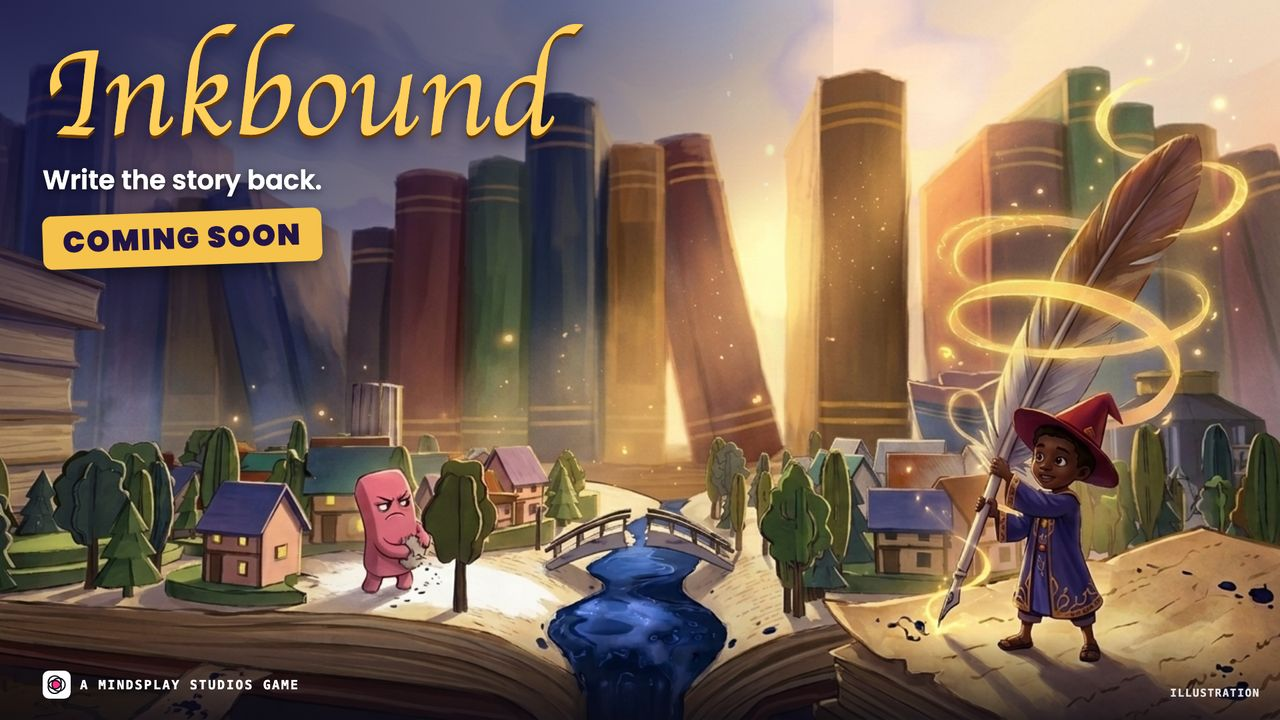
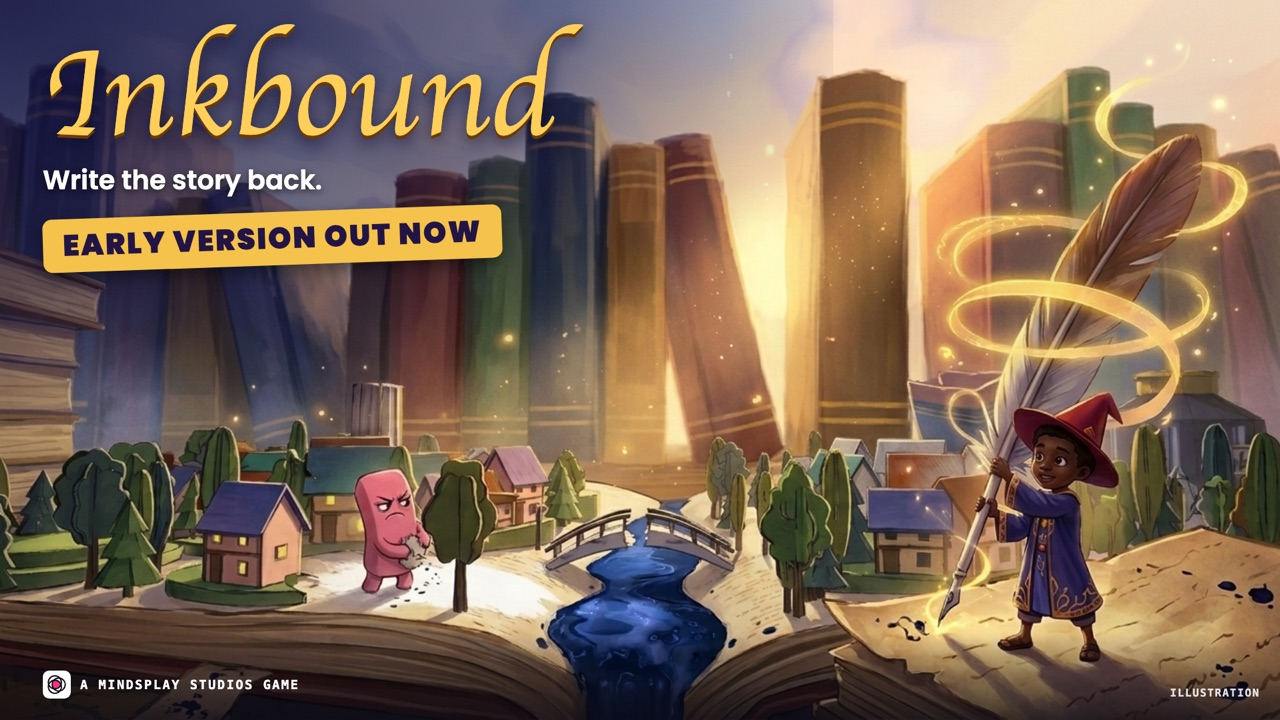
Inkbound early version: browser demo, downloads, card and page

Changed region(s): [[0.0312, 0.275, 0.4062, 0.3972], [0.0312, 0.9472, 0.0625, 0.9778]]

diff --git a/inkbound-play.html b/inkbound-play.html
@@ -1,0 +1,99 @@
+<!doctype html>
+<html lang="en">
+<head>
+<meta charset="utf-8">
+<meta name="viewport" content="width=device-width, initial-scale=1, viewport-fit=cover">
+<title>Play the free demo · Inkbound</title>
+<meta name="description" content="Play Inkbound in your browser. A storybook adventure set inside an open book. You are the Scribe: catch golden words and write them onto the world to repair what the Eraser rubbed out. Two chapters, on adjectives and verb tenses, about 15 to 20 minutes. Chapter One is free for everyone; sign in inside the game with your MindsPlay class code for the whole book.">
+<link rel="icon" href="img/icons/inkbound.svg">
+<link rel="stylesheet" href="https://fonts.googleapis.com/css2?family=Baloo+2:wght@600;800&family=Lexend:wght@400;500;600&family=Silkscreen&display=swap">
+<link rel="stylesheet" href="app.css">
+<style>
+.stage { position:relative; width:100%; aspect-ratio:16/9; max-height:calc(100vh - 140px); background:#000 url(img/art-inkbound.jpg) center/cover; border:4px solid var(--edge); border-radius:18px; overflow:hidden; margin-inline:auto }
+.stage canvas { width:100%; height:100%; display:block; background:transparent }
+.cover { position:absolute; inset:0; display:grid; place-content:center; justify-items:center; gap:16px; text-align:center; padding:24px; background:linear-gradient(0deg, rgba(4,22,31,.94), rgba(4,22,31,.6)) }
+.cover h1 { font-size:clamp(30px,5vw,54px) }
+.cover p { max-width:48ch; color:#DADAF5 }
+.meter { width:min(420px, 80vw); height:14px; background:var(--deep); border:2px solid var(--edge); border-radius:999px; overflow:hidden }
+.meter i { display:block; height:100%; width:0; background:linear-gradient(90deg,#46E0FF,#7CFFB2); transition:width .3s }
+.full { position:absolute; right:10px; top:10px; z-index:2; opacity:.85 }
+.keys { display:grid; grid-template-columns:repeat(auto-fit,minmax(170px,1fr)); gap:10px; margin:0; padding:0; list-style:none }
+.keys li { padding:10px 12px; border:2px solid var(--edge); border-radius:12px; font-size:14px }
+.keys b { display:block; font-size:15px }
+</style>
+<link rel="canonical" href="https://mindsplaystudiogh.com/inkbound-play.html">
+<meta property="og:type" content="website">
+<meta property="og:site_name" content="MindsPlay Studios">
+<meta property="og:url" content="https://mindsplaystudiogh.com/inkbound-play.html">
+<meta property="og:title" content="Play the free demo · Inkbound">
+<meta property="og:description" content="Play Inkbound in your browser. A storybook adventure set inside an open book. You are the Scribe: catch golden words and write them onto the world to repair what the Eraser rubbed out. Two chapters, on adjectives and verb tenses, about 15 to 20 minutes. Chapter One is free for everyone; sign in inside the game with your MindsPlay class code for the whole book.">
+<meta property="og:image" content="https://mindsplaystudiogh.com/img/og-inkbound.jpg">
+<meta property="og:image:width" content="1200">
+<meta property="og:image:height" content="630">
+<meta property="og:image:alt" content="Play the free demo · Inkbound">
+<meta property="og:locale" content="en_GH">
+<meta name="twitter:card" content="summary_large_image">
+<meta name="twitter:title" content="Play the free demo · Inkbound">
+<meta name="twitter:description" content="Play Inkbound in your browser. A storybook adventure set inside an open book. You are the Scribe: catch golden words and write them onto the world to repair what the Eraser rubbed out. Two chapters, on adjectives and verb tenses, about 15 to 20 minutes. Chapter One is free for everyone; sign in inside the game with your MindsPlay class code for the whole book.">
+<meta name="twitter:image" content="https://mindsplaystudiogh.com/img/og-inkbound.jpg">
+</head>
+<body>
+<main class="wrap stack">
+  <div class="stack" style="gap:8px">
+    <span class="tag">Free demo · no download</span>
+    <h1>Play Inkbound in your browser</h1>
+    <p class="lead">A storybook adventure set inside an open book. You are the Scribe: catch golden words and write them onto the world to repair what the Eraser rubbed out. Two chapters, on adjectives and verb tenses, about 15 to 20 minutes. Chapter One is free for everyone; sign in inside the game with your MindsPlay class code for the whole book. Best on a laptop or desktop with a keyboard and mouse.</p>
+  </div>
+  <div class="stage" id="stage">
+    <canvas id="unity" tabindex="-1" aria-label="Inkbound game"></canvas>
+    <div class="cover" id="cover">
+      <h1>Write the world back.</h1>
+      <p id="covertext">Walk up to a glowing prompt, press E to write, then choose the word that fixes the page.</p>
+      <div class="meter" id="meter" hidden><i></i></div>
+      <button class="btn" id="start" type="button">▶ Play the free demo</button>
+      <p class="err" id="err" role="alert"></p>
+    </div>
+    <button class="btn ghost small full" id="fs" type="button" hidden>Full screen</button>
+  </div>
+  <ul class="keys">
+    <li><b>Walk</b>WASD or arrow keys</li>
+    <li><b>Look</b>Hold a mouse button and drag</li>
+    <li><b>Jump</b>Space</li>
+    <li><b>Write</b>E or Enter</li>
+    <li><b>Choose a word</b>1, 2, 3 or click</li>
+  </ul>
+  <div class="grid2">
+    <a class="card" href="inkbound-download.html?from=play" style="text-decoration:none;color:inherit"><h3>Download Inkbound</h3><p class="muted">The same game for Windows and Mac. Runs smoother and plays without internet.</p></a>
+    <a class="card" href="inkbound.html" style="text-decoration:none;color:inherit"><h3>About Inkbound</h3><p class="muted">What it is, who it is for and what it teaches.</p></a>
+  </div>
+  <p class="small muted">This is an early demo and we are still building. Tell us what you think: <a href="mailto:hello@mindsplaystudiogh.com?subject=Inkbound">hello@mindsplaystudiogh.com</a></p>
+</main>
+<script src="app.js"></script>
+<script>
+topBar('<a href="inkbound.html" class="hide-sm">About Inkbound</a><a href="inkbound-download.html?from=play">Download</a><a href="index.html#games">All games</a>', 'Inkbound');
+const BUILD = API + '/play/inkbound/Build/';
+const mobile = /Android|iPhone|iPad|iPod/i.test(navigator.userAgent);
+if (mobile) $('#covertext').textContent = 'Inkbound is made for computers. On a phone the demo may be slow and needs a keyboard. For the best time, open this page on a laptop or desktop.';
+
+let instance;
+$('#start').addEventListener('click', () => {
+  $('#start').hidden = true;
+  $('#meter').hidden = false;
+  $('#covertext').textContent = 'Loading Inkbound… (about 14 MB the first time, then it’s saved)';
+  const s = document.createElement('script');
+  s.src = BUILD + 'inkbound.loader.js';
+  s.onerror = () => { $('#err').textContent = 'The demo couldn’t load. Check your connection and refresh the page.'; };
+  s.onload = () => createUnityInstance($('#unity'), {
+    dataUrl: BUILD + 'inkbound.data.br',
+    frameworkUrl: BUILD + 'inkbound.framework.js.br',
+    codeUrl: BUILD + 'inkbound.wasm.br',
+    companyName: 'MindsPlay Studios', productName: 'Inkbound', productVersion: '0.1',
+  }, p => { $('#meter i').style.width = Math.round(p * 100) + '%'; })
+    .then(u => { instance = u; $('#cover').hidden = true; $('#fs').hidden = false; $('#unity').focus(); })
+    .catch(e => { $('#err').textContent = 'The demo couldn’t start on this device: ' + e; });
+  document.body.append(s);
+});
+$('#fs').addEventListener('click', () => instance && instance.SetFullscreen(1));
+</script>
+</body>
+</html>

diff --git a/inkbound-download.html b/inkbound-download.html
@@ -1,0 +1,72 @@
+<!doctype html>
+<html lang="en">
+<head>
+<meta charset="utf-8">
+<meta name="viewport" content="width=device-width, initial-scale=1, viewport-fit=cover">
+<title>Download Inkbound · MindsPlay Studios</title>
+<meta name="description" content="Download Inkbound for Windows or Mac.">
+<link rel="icon" href="img/icons/inkbound.svg">
+<link rel="stylesheet" href="https://fonts.googleapis.com/css2?family=Baloo+2:wght@600;800&family=Lexend:wght@400;500;600&family=Silkscreen&display=swap">
+<link rel="stylesheet" href="app.css">
+<link rel="canonical" href="https://mindsplaystudiogh.com/inkbound-download.html">
+<meta property="og:type" content="website">
+<meta property="og:site_name" content="MindsPlay Studios">
+<meta property="og:url" content="https://mindsplaystudiogh.com/inkbound-download.html">
+<meta property="og:title" content="Download Inkbound · MindsPlay Studios">
+<meta property="og:description" content="Download Inkbound for Windows or Mac.">
+<meta property="og:image" content="https://mindsplaystudiogh.com/img/og-inkbound.jpg">
+<meta property="og:image:width" content="1200">
+<meta property="og:image:height" content="630">
+<meta property="og:image:alt" content="Download Inkbound · MindsPlay Studios">
+<meta property="og:locale" content="en_GH">
+<meta name="twitter:card" content="summary_large_image">
+<meta name="twitter:title" content="Download Inkbound · MindsPlay Studios">
+<meta name="twitter:description" content="Download Inkbound for Windows or Mac.">
+<meta name="twitter:image" content="https://mindsplaystudiogh.com/img/og-inkbound.jpg">
+</head>
+<body>
+<main class="wrap stack">
+  <div class="stack" style="gap:8px">
+    <span class="tag">Early version · Windows · Mac</span>
+    <h1>Download Inkbound</h1>
+    <p class="lead">A storybook adventure set inside an open book. You are the Scribe: catch golden words and write them onto the world to repair what the Eraser rubbed out. Two chapters, on adjectives and verb tenses, about 15 to 20 minutes. Chapter One is free for everyone; sign in inside the game with your MindsPlay class code for the whole book. It plays without internet.</p>
+  </div>
+  <div class="grid2">
+    <div class="card gold">
+      <h2>Windows</h2>
+      <p class="muted">Windows 10 or 11, 64-bit. About 45 MB.</p>
+      <a class="btn" id="win" href="#">Download for Windows</a>
+      <ol class="small muted" style="margin:0;padding-left:20px">
+        <li>Open the downloaded <b>Inkbound-Windows.zip</b> and choose <b>Extract all</b>.</li>
+        <li>Open the <b>Inkbound</b> folder and double-click <b>Inkbound</b>.</li>
+        <li>If Windows says “Windows protected your PC”, click <b>More info</b>, then <b>Run anyway</b>.</li>
+      </ol>
+    </div>
+    <div class="card">
+      <h2>Mac</h2>
+      <p class="muted">macOS 11 or newer, Apple silicon or Intel. About 52 MB.</p>
+      <a class="btn" id="mac" href="#">Download for Mac</a>
+      <ol class="small muted" style="margin:0;padding-left:20px">
+        <li>Open <b>Inkbound-Mac.zip</b> and drag <b>Inkbound</b> into Applications.</li>
+        <li>Double-click Inkbound. The first time, your Mac says it can’t check the app. Click <b>Done</b>.</li>
+        <li>Open <b>System Settings</b>, then <b>Privacy &amp; Security</b>. Scroll down and click <b>Open Anyway</b> next to Inkbound, then confirm with your password.</li>
+        <li>On macOS 14 or older, you can instead right-click Inkbound and choose <b>Open</b>, then <b>Open</b> again.</li>
+      </ol>
+    </div>
+  </div>
+  <div class="card">
+    <h3>How to play</h3>
+    <p class="muted">Walk with <b>WASD</b> or the arrow keys, hold a mouse button and drag to look, and press <b>Space</b> to jump. Press <b>E</b> or <b>Enter</b> to write when a prompt appears, then choose a word with <b>1</b>, <b>2</b>, <b>3</b> or a click. <b>Esc</b> pauses.</p>
+    <div class="row"><a class="btn ghost small" href="inkbound-play.html">Or try the demo in your browser</a><a class="btn ghost small" href="inkbound.html">About Inkbound</a></div>
+  </div>
+  <p class="small muted">This is an early version and we are still building. Questions or ideas? <a href="mailto:hello@mindsplaystudiogh.com?subject=Inkbound">hello@mindsplaystudiogh.com</a></p>
+</main>
+<script src="app.js"></script>
+<script>
+topBar('<a href="inkbound.html" class="hide-sm">About Inkbound</a><a href="inkbound-play.html">Play in browser</a><a href="index.html#games">All games</a>', 'Inkbound');
+$('#win').href = API + '/download/Inkbound-Windows.zip';
+$('#mac').href = API + '/download/Inkbound-Mac.zip';
+if (/Mac/.test(navigator.platform) && !/iPhone|iPad/.test(navigator.userAgent)) $('#mac').closest('.card').parentNode.prepend($('#mac').closest('.card'));
+</script>
+</body>
+</html>

diff --git a/inkbound.html b/inkbound.html
@@ -214,7 +214,7 @@ footer nav a { text-decoration:none } footer nav a:hover { color:var(--text) }
 <meta name="twitter:title" content="Inkbound: reading and writing adventure game | MindsPlay Studios">
 <meta name="twitter:description" content="Inkbound: write the story back. A storybook adventure for ages 7 to 11 where children catch golden words and write them onto the world to beat the Eraser. A MindsPlay Studios game.">
 <meta name="twitter:image" content="https://mindsplaystudiogh.com/img/og-inkbound.jpg">
-<script type="application/ld+json">{"@context": "https://schema.org", "@type": "VideoGame", "name": "Inkbound", "url": "https://mindsplaystudiogh.com/inkbound.html", "image": "https://mindsplaystudiogh.com/img/og-inkbound.jpg", "description": "Inkbound: write the story back. A storybook adventure for ages 7 to 11 where children catch golden words and write them onto the world to beat the Eraser. A MindsPlay Studios game.", "genre": ["Educational", "Reading and writing"], "about": "Reading and writing", "inLanguage": "en", "typicalAgeRange": "7-11", "audience": {"@type": "PeopleAudience", "suggestedMinAge": 7, "suggestedMaxAge": 11}, "publisher": {"@type": "Organization", "name": "MindsPlay Studios", "url": "https://mindsplaystudiogh.com/"}, "creativeWorkStatus": "In development"}</script>
+<script type="application/ld+json">{"@context": "https://schema.org", "@type": "VideoGame", "name": "Inkbound", "url": "https://mindsplaystudiogh.com/inkbound.html", "image": "https://mindsplaystudiogh.com/img/og-inkbound.jpg", "description": "Inkbound: write the story back. A storybook adventure for ages 7 to 11 where children catch golden words and write them onto the world to beat the Eraser. A MindsPlay Studios game.", "genre": ["Educational", "Reading and writing"], "about": "Reading and writing", "inLanguage": "en", "typicalAgeRange": "7-11", "audience": {"@type": "PeopleAudience", "suggestedMinAge": 7, "suggestedMaxAge": 11}, "publisher": {"@type": "Organization", "name": "MindsPlay Studios", "url": "https://mindsplaystudiogh.com/"}, "creativeWorkStatus": "In development", "gamePlatform": ["Windows", "macOS", "Web browser"]}</script>
 </head>
 <body>
 
@@ -237,7 +237,9 @@ footer nav a { text-decoration:none } footer nav a:hover { color:var(--text) }
     <p class="line">Write the story back.</p>
     <p class="lede">The Eraser is rubbing out the book you live in. Catch golden words and write them onto the world: freeze a river to cross it, or grow a seed into a bridge.</p>
     <div class="ctas">
-      <a class="btn gold" href="player.html#new">Make my player account</a>
+      <a class="btn gold" href="inkbound-play.html">Play free in your browser</a>
+      <a class="btn ghost" href="inkbound-download.html">Download for Windows / Mac</a>
+      <a class="btn ghost" href="player.html#new">Make my player account</a>
       <a class="btn ghost" href="account.html">Add it to your child’s games</a>
     </div>
     <div class="facts"><span>Ages <b>7–11</b></span><span>Storybook adventure</span><span>Reading and writing</span><span>No ads</span></div>
@@ -403,6 +405,7 @@ const store = { get(k, d) { try { const v = localStorage.getItem("inkbound_" + k
     const j = await r.json(); const g = (j.games || j || []).find(x => x.id === "inkbound"); if (!g) return;
     const el = $("status");
     if (g.status === "live") { el.textContent = "Out now"; el.classList.add("live"); el.hidden = false; }
+    else if (g.status === "beta") { el.textContent = "Early version · play it now"; el.classList.add("live"); el.hidden = false; }
     else if (g.status === "coming_soon") { el.textContent = "Coming soon · add it to your list today"; el.hidden = false; }
   } catch {}
 })();

diff --git a/index.html b/index.html
@@ -353,8 +353,8 @@ canvas#fx { position:fixed; inset:0; pointer-events:none; z-index:40 }
   <div class="wrap">
     <div class="head">
       <span class="mono eyebrow">Game library</span>
-      <h2>One game out. Five on the way.</h2>
-      <p>Xed is out now and five more are on the way. Every one is free to play from 14 December to 4 January. Hype the one you want first.</p>
+      <h2>Five games to play now. One on the way.</h2>
+      <p>Xed is out, four more have early versions you can play today, and Brightside is close behind. Every one is free to play from 14 December to 4 January. Hype the one you want first.</p>
     </div>
     <div class="lineup" id="lineup">
       <article class="gcard feature">
@@ -378,13 +378,13 @@ canvas#fx { position:fixed; inset:0; pointer-events:none; z-index:40 }
         </div>
       </article>
       <article class="gcard half">
-        <div class="gart"><img src="img/g-inkbound.jpg" alt="Inkbound: a young scribe holds a giant quill on the pages of an open book. Coming soon." loading="lazy"></div>
+        <div class="gart"><img src="img/g-inkbound.jpg" alt="Inkbound: a young scribe holds a giant quill on the pages of an open book. Early version out now." loading="lazy"></div>
         <div class="gbody">
-          <div class="meta"><span class="soon">Coming soon</span><span>Ages 7–11</span><span>Storybook adventure</span></div>
+          <div class="meta"><span class="live">Early version</span><span>Ages 7–11</span><span>Storybook adventure</span><span>Windows · Mac · Browser</span></div>
           <h3>Inkbound</h3>
           <p>The Eraser is rubbing out the book you live in. Catch golden words and write them onto the world: freeze a river to cross it, or grow a seed into a bridge.</p>
           <p class="skills">Builds: adjectives, verbs, past, present and future tense, reading for meaning.</p>
-          <div class="row"><a class="more" href="inkbound.html">Know more <span aria-hidden="true">→</span></a><button class="hype" type="button" data-game="inkbound" aria-pressed="false">Hype it</button></div>
+          <div class="row"><a class="btn pink" href="inkbound-play.html"><span class="tri"></span>Play free in your browser</a><a class="more" href="inkbound.html">Know more <span aria-hidden="true">→</span></a><button class="hype" type="button" data-game="inkbound" aria-pressed="false">Hype it</button></div>
         </div>
       </article>
       <article class="gcard half">
@@ -617,7 +617,7 @@ function showStage(i, user) {
   $("sname").textContent = s.n + ", ages " + s.r; $("sclass").textContent = s.c; $("sdesc").textContent = s.d;
   Object.values(s.s).forEach((v, j) => { const row = $("sstats").children[j]; row.querySelector("i").style.width = v + "%"; row.querySelector("b").textContent = v; });
   $("slife").innerHTML = s.life.map(l => `<span>${l}</span>`).join("");
-  $("sgames").innerHTML = "Games: " + s.g.map(g => `<span class="gtag" style="background:${GAMECOL[g][0]};color:${GAMECOL[g][1]}">${g}${g === "Xed" ? "" : g === "Sworld" ? " · demo" : g === "Lamplight" || g === "GranED Prix" ? "" : " · soon"}</span>`).join("");
+  $("sgames").innerHTML = "Games: " + s.g.map(g => `<span class="gtag" style="background:${GAMECOL[g][0]};color:${GAMECOL[g][1]}">${g}${g === "Xed" ? "" : g === "Sworld" ? " · demo" : g === "Lamplight" || g === "GranED Prix" || g === "Inkbound" ? "" : " · soon"}</span>`).join("");
   if (user) { seen.add(i); store.set("stages", [...seen]); renderHud(); if (seen.size === 4) complete("grow"); }
 }
 $("ages").addEventListener("click", e => { const b = e.target.closest(".age"); if (b) showStage([...$("ages").children].indexOf(b), true); });

diff --git a/game-skills.js b/game-skills.js
@@ -6,7 +6,10 @@ const GAME_SKILLS = {
     "sw-neutralise": { name: "Neutralisation: choosing an acid or an alkali to cancel the other", topic: "Acids and alkalis" },
     "sw-ph-scale": { name: "The pH scale: stopping at neutral (pH 7) without overshooting", topic: "Acids and alkalis" },
     "sw-metal-acid": { name: "Reactive metal + acid makes a salt and hydrogen", topic: "Reactivity of metals" },
-    "sw-reactivity": { name: "The reactivity series: copper does not react with dilute acid", topic: "Reactivity of metals" },
+    "sw-reactivity": { name: "The reactivity series: copper, silver and gold do not react with dilute acid", topic: "Reactivity of metals" },
+    "sw-indicators": { name: "Universal indicator: reading acid, neutral and alkali from the colour", topic: "Acids and alkalis" },
+    "sw-salts": { name: "Salts: naming the salt an acid makes, and getting crystals from a solution", topic: "Making salts" },
+    "sw-displacement": { name: "Displacement and the order of the reactivity series", topic: "Reactivity of metals" },
   } },
   lamplight: { subject: "Religious and Moral Education", skills: {
     "lp-noah": { name: "Noah’s Ark: God keeps his promises", topic: "Old Testament stories" },

diff --git a/sworld-play.html b/sworld-play.html
@@ -42,7 +42,7 @@
   <div class="stack" style="gap:8px">
     <span class="tag">Free demo · no download</span>
     <h1>Play Sworld in your browser</h1>
-    <p class="lead">The Reactive Marsh: slimes and metal-shelled monsters where the chemistry is the combat. The first two rooms are free for everyone; sign in inside the game with your MindsPlay class code to play all four. Best on a laptop or desktop with a keyboard and mouse, or a gamepad.</p>
+    <p class="lead">Three worlds of slimes, spitters and metal-shelled monsters where the chemistry is the combat. The first two rooms are free for everyone; sign in inside the game with your MindsPlay class code to play all twelve rooms and face the three guardians. Best on a laptop or desktop with a keyboard and mouse, or a gamepad.</p>
   </div>
   <div class="stage" id="stage">
     <canvas id="unity" tabindex="-1" aria-label="Sworld game"></canvas>

diff --git a/sworld-download.html b/sworld-download.html
@@ -29,7 +29,7 @@
   <div class="stack" style="gap:8px">
     <span class="tag">Free demo · Windows · Mac</span>
     <h1>Download Sworld</h1>
-    <p class="lead">The Reactive Marsh: four rooms, three heroes, and chemistry as your weapon. Free to download. Anyone can play the first two rooms; sign in inside the game with your MindsPlay class code for the whole game. After signing in once it plays without internet.</p>
+    <p class="lead">Three worlds, twelve rooms, three guardians, three heroes, and chemistry as your weapon: the Reactive Marsh, the Crystal Caverns and the Ember Foundry. Free to download. Anyone can play the first two rooms; sign in inside the game with your MindsPlay class code for the whole game. After signing in once it plays without internet.</p>
   </div>
   <div class="grid2">
     <div class="card gold">
